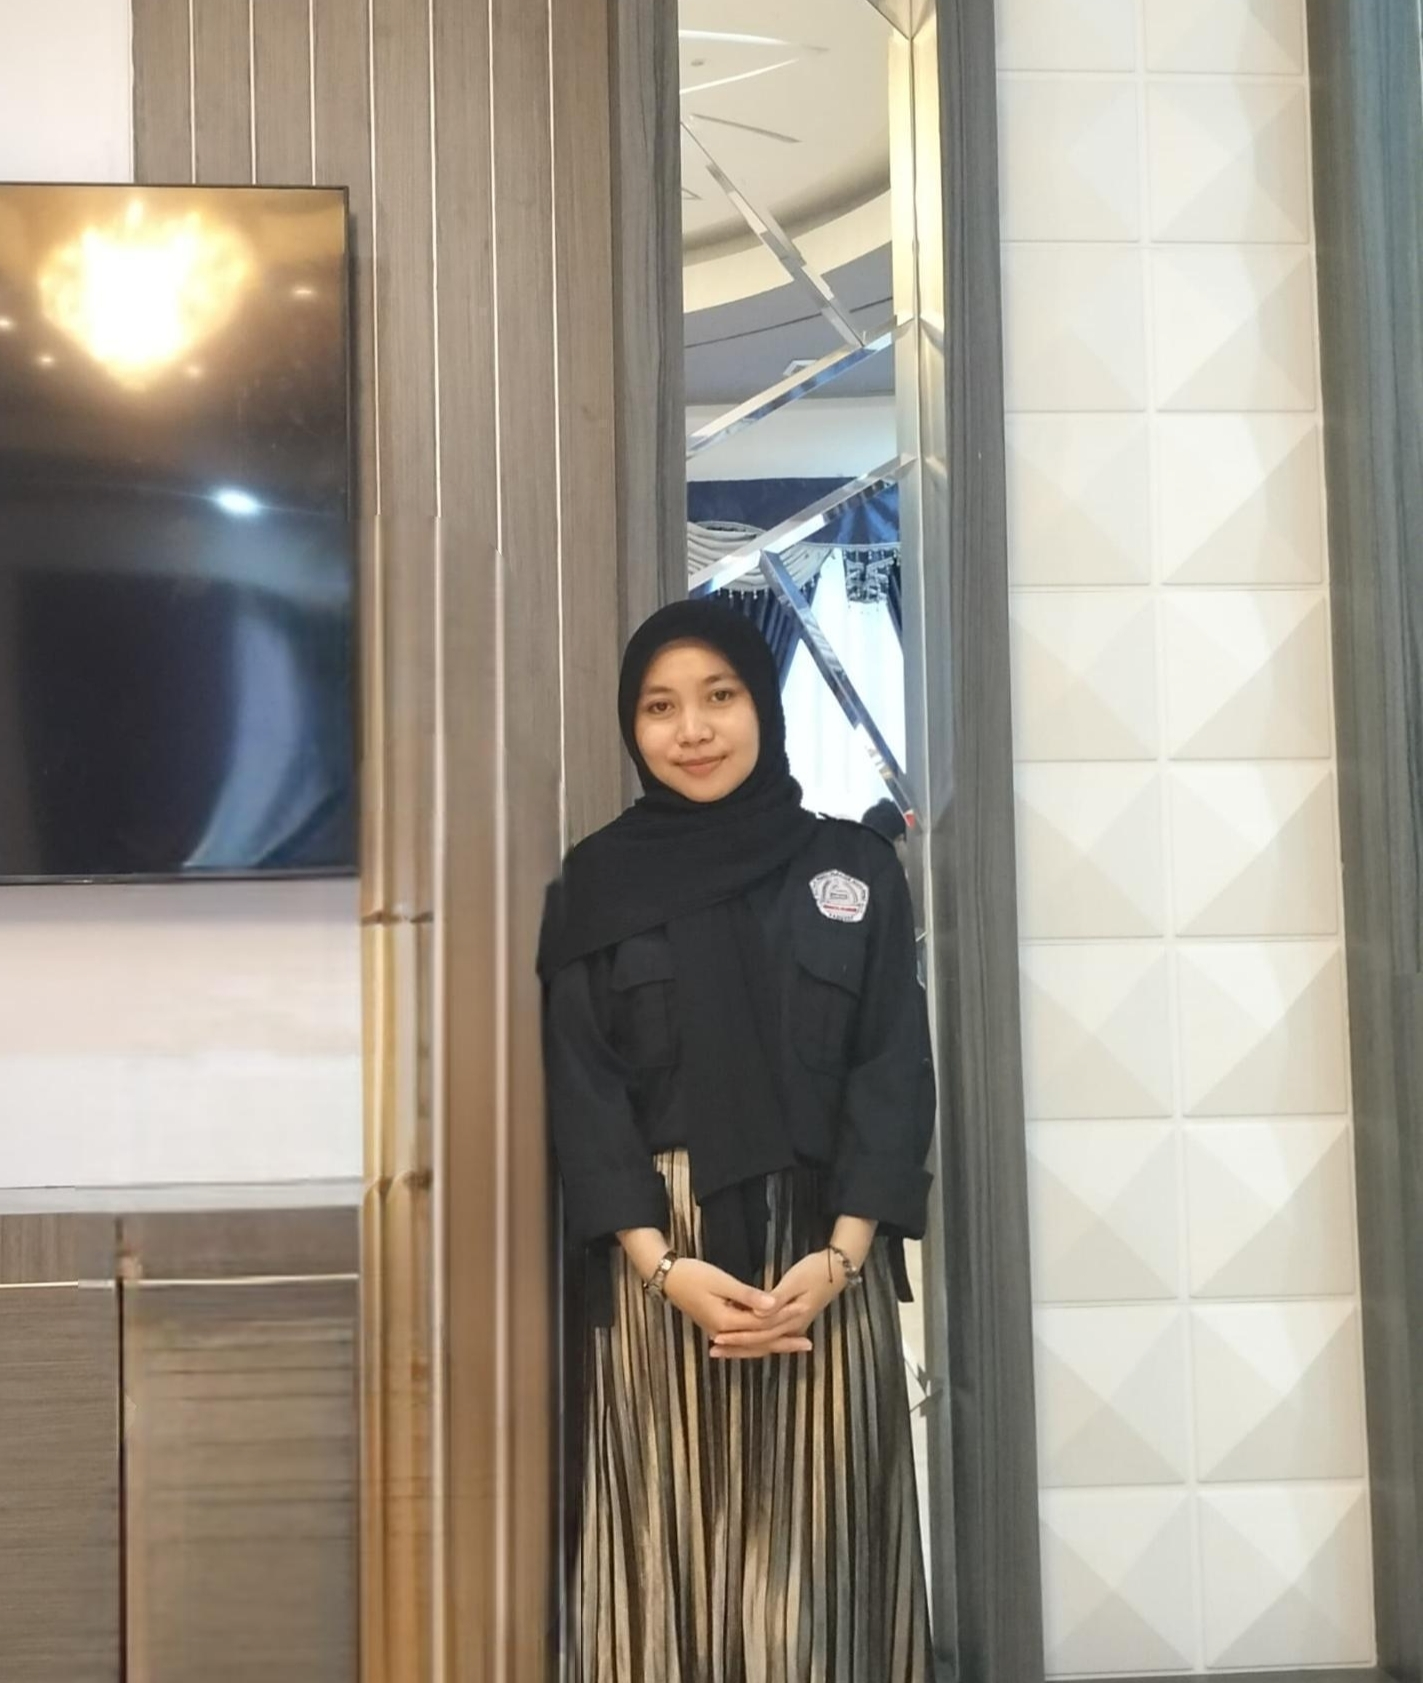
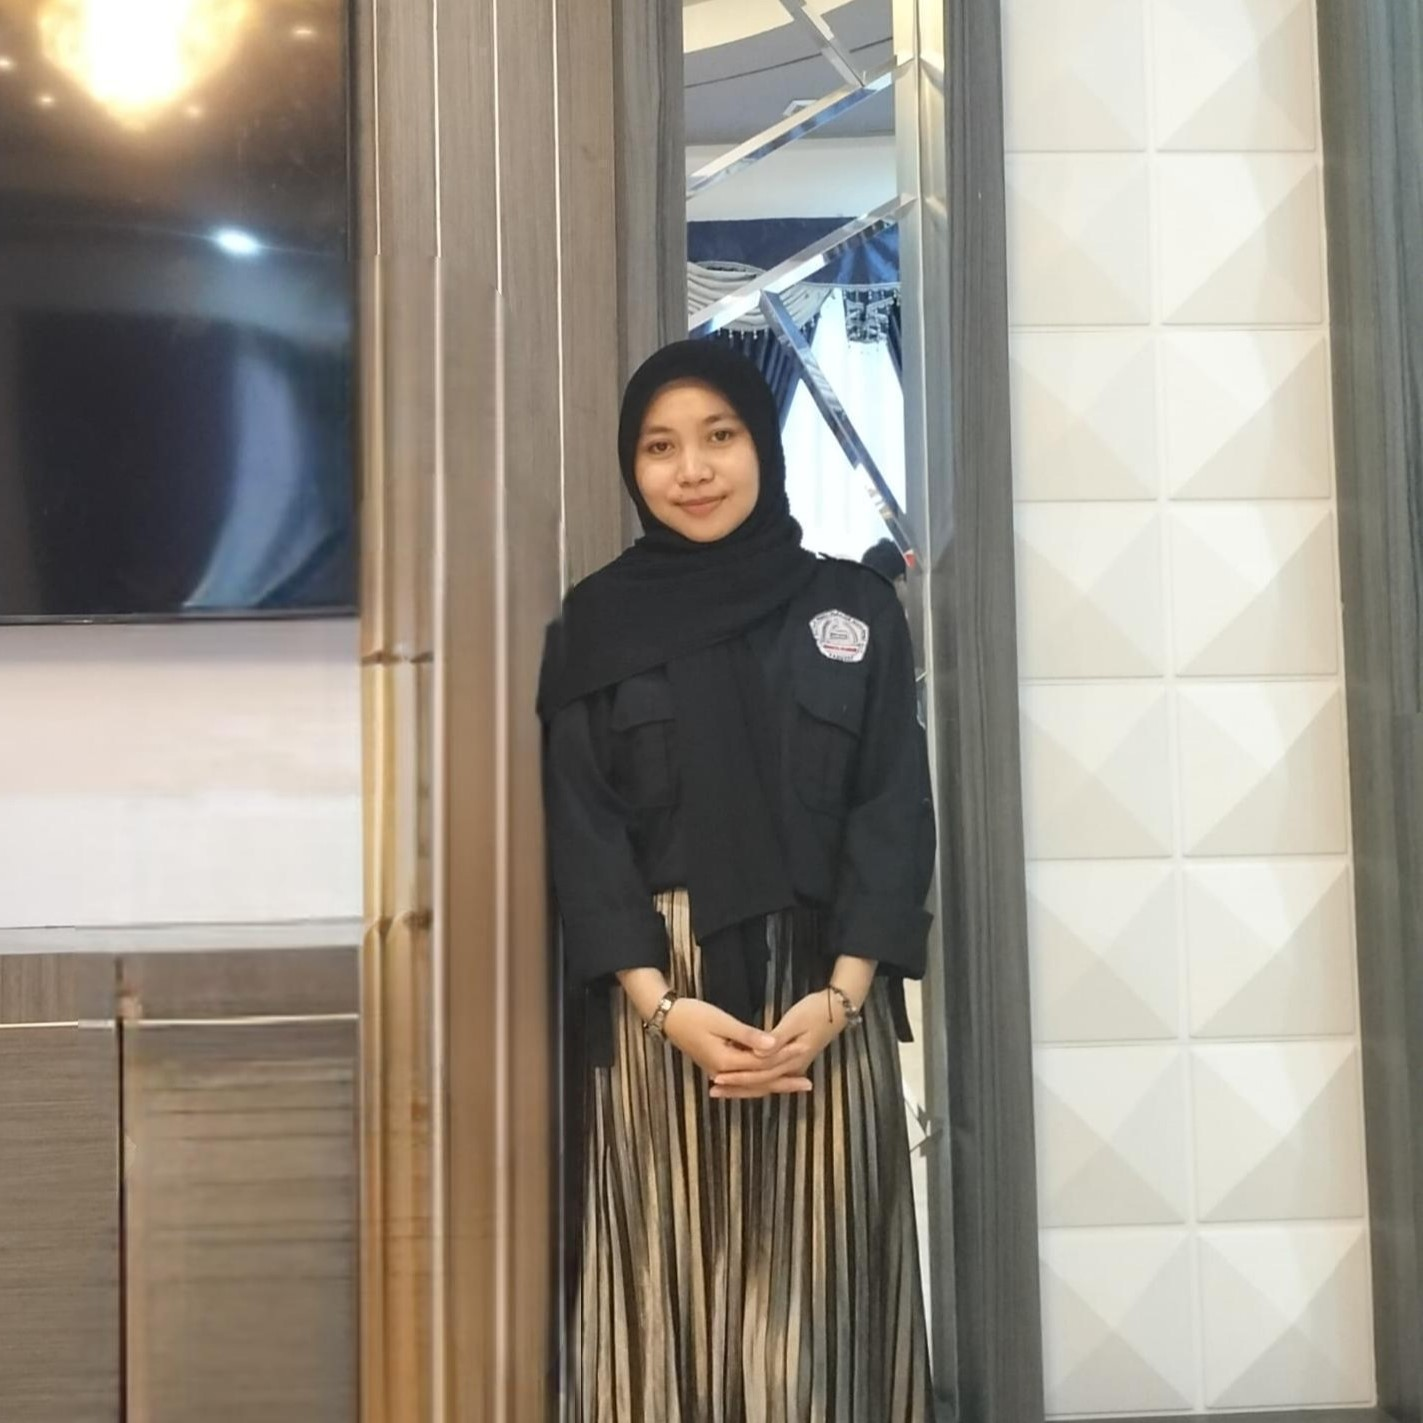
commit

diff --git a/index.html b/index.html
@@ -95,25 +95,25 @@
           <p class="profil-nama-univ">Universitas Brawijaya</p>
         </div>
         <div class="profil-card">
-          <img src="image/naruto.jpg" alt="naruto" class="profil-nama-img" />
+          <img src="image/bela.jpg" alt="naruto" class="profil-nama-img" />
           <h3 class="profil-title">Bela Durotunavisa</h3>
           <p class="profil-nama-jurusan">Kesehatan Masyarakat</p>
           <p class="profil-nama-univ">Universitas Siliwangi</p>
         </div>
         <div class="profil-card">
-          <img src="image/naruto.jpg" alt="naruto" class="profil-nama-img" />
+          <img src="image/Eva.jpg" alt="naruto" class="profil-nama-img" />
           <h3 class="profil-title">Eva Dhorifah</h3>
           <p class="profil-nama-jurusan">Matematika</p>
           <p class="profil-nama-univ">Universitas Negeri Jember</p>
         </div>
         <div class="profil-card">
-          <img src="image/naruto.jpg" alt="naruto" class="profil-nama-img" />
+          <img src="image/Fadia.jpg" alt="naruto" class="profil-nama-img" />
           <h3 class="profil-title">Fadia Nailah</h3>
           <p class="profil-nama-jurusan">Statistika</p>
           <p class="profil-nama-univ">Universitas Hasanuddin</p>
         </div>
         <div class="profil-card">
-          <img src="image/naruto.jpg" alt="naruto" class="profil-nama-img" />
+          <img src="image/Kevin.jpg" alt="naruto" class="profil-nama-img" />
           <h3 class="profil-title">Kevin Candra</h3>
           <p class="profil-nama-jurusan">Sistem Informasi</p>
           <p class="profil-nama-univ">Universitas Prima</p>
@@ -143,7 +143,7 @@
           <p class="profil-nama-univ">Universitas Komputer Indonesia</p>
         </div>
         <div class="profil-card">
-          <img src="image/naruto.jpg" alt="naruto" class="profil-nama-img" />
+          <img src="image/Shabrina.jpg" alt="naruto" class="profil-nama-img" />
           <h3 class="profil-title">Shabrina Muthia Adani</h3>
           <p class="profil-nama-jurusan">Teknik Informatika</p>
           <p class="profil-nama-univ">Universitas YARSI</p>
